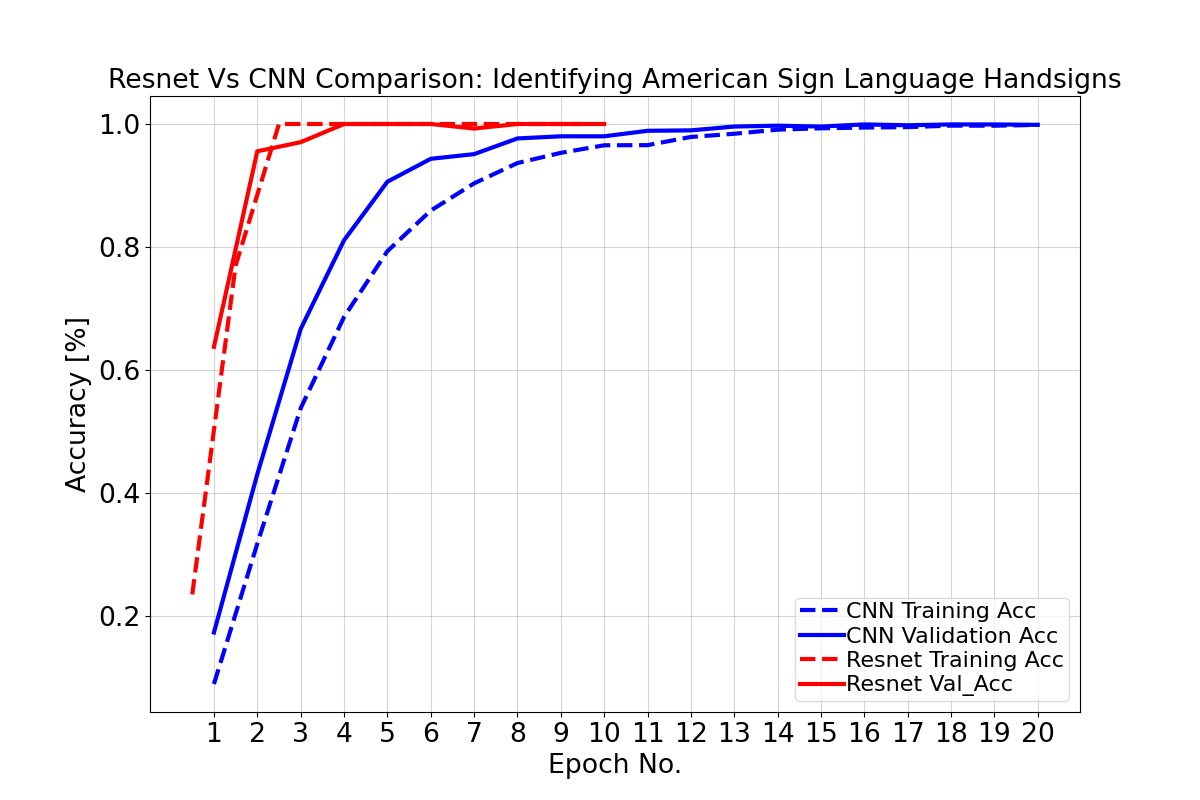
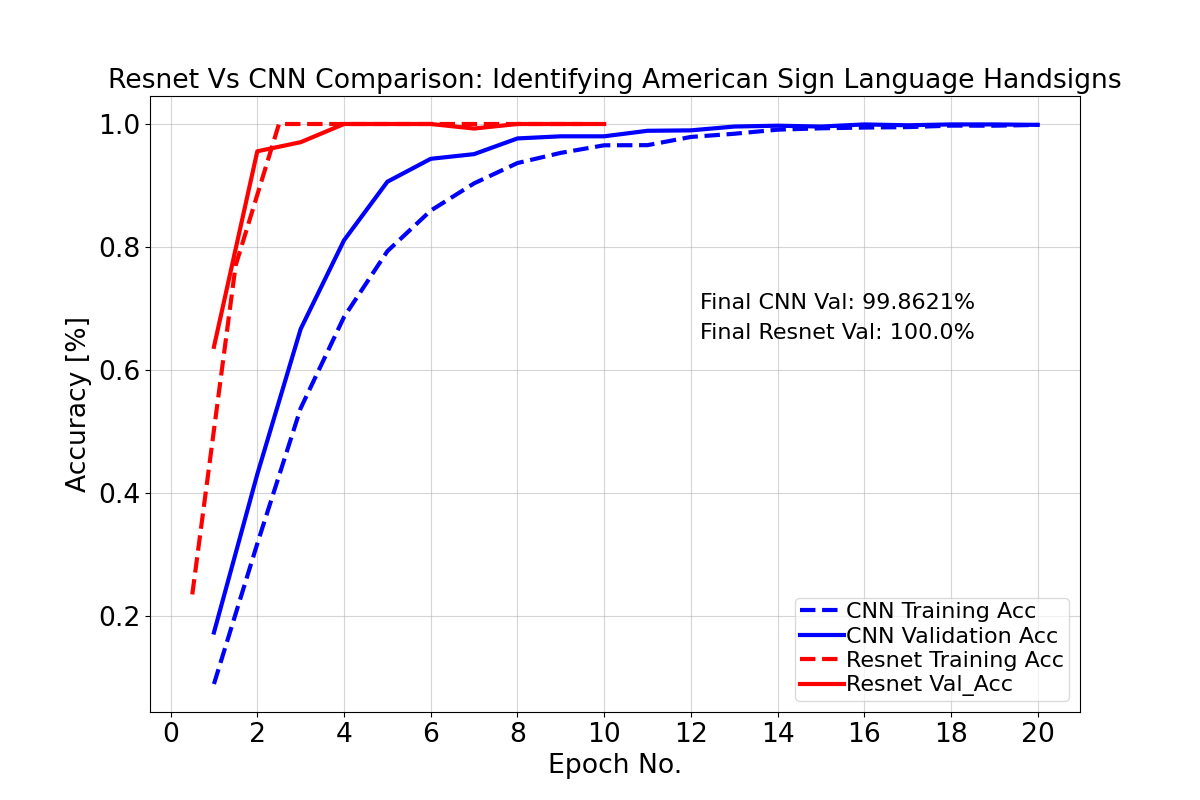
added text, fixed xticks [again], updated plot to latest version

diff --git a/Plotter.py b/Plotter.py
@@ -65,12 +65,13 @@ plt.plot(epochs, CNN_val_accs, label="CNN Validation Acc", color="b")
 plt.plot(Resnet_train_accs_xaxis, Resnet_train_accs, label="Resnet Training Acc", color="r", linestyle="--")
 plt.plot(Resnet_val_accs_xaxis, Resnet_val_accs, label="Resnet Val_Acc", color="r")
 
-# need to do this to add a 0 tick mark
-x_ticks_epochs = epochs.insert(0,0)
-plt.xticks(x_ticks_epochs)
+plt.xticks(np.arange(0,21, 2))
 
 plt.xlabel("Epoch No.")
 plt.ylabel("Accuracy [%]")
+
+plt.text(x=12.2,y=0.7,s="Final CNN Val: {:.4f}%".format(CNN_val_accs[-1]*100))
+plt.text(x=12.2,y=0.65,s="Final Resnet Val: {:.1f}%".format(Resnet_val_accs[-1]*100))
 
 plt.title("Resnet Vs CNN Comparison: Identifying American Sign Language Handsigns")
 
